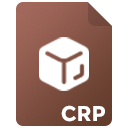
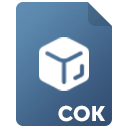
.

diff --git a/Controls/Form/AutoSizeLabel.cs b/Controls/Form/AutoSizeLabel.cs
@@ -12,6 +12,8 @@ public class AutoSizeLabel : SlickControl
 	public StringAlignment HorizontalAlignment { get; set; }
 	[DefaultValue(StringAlignment.Near)]
 	public StringAlignment VerticalAlignment { get; set; }
+	[DefaultValue(true)]
+	public bool AutoFit { get; set; } = true;
 
 	[Browsable(true)]
 	[DesignerSerializationVisibility(DesignerSerializationVisibility.Visible)]
@@ -50,9 +52,9 @@ public class AutoSizeLabel : SlickControl
 			format.FormatFlags |= StringFormatFlags.DirectionRightToLeft;
 		}
 
-		var width = Math.Min(availableSize.Width, Padding.Horizontal + (int)FontMeasuring.Measure(Text, Font).Width);
+		var width = Math.Min(availableSize.Width - Padding.Horizontal, (int)FontMeasuring.Measure(Text, Font).Width);
 
-		return new Size(width, Math.Min(availableSize.Height, Padding.Vertical + (int)FontMeasuring.Measure(Text, Font, width - Padding.Horizontal, format).Height));
+		return new Size(width, Math.Min(availableSize.Height, Padding.Vertical + (int)FontMeasuring.Measure(Text, Font, width, format).Height));
 	}
 
 	protected override void OnPaint(PaintEventArgs e)
@@ -61,7 +63,7 @@ public class AutoSizeLabel : SlickControl
 
 		base.OnPaint(e);
 
-		using var font = new Font(Font, Font.Style).FitTo(Text, ClientRectangle.Pad(Padding), e.Graphics);
+		var font = AutoFit ? new Font(Font, Font.Style).FitTo(Text, ClientRectangle.Pad(Padding), e.Graphics) : Font;
 		using var brush = new SolidBrush(ForeColor);
 		using var format = new StringFormat
 		{
@@ -75,5 +77,10 @@ public class AutoSizeLabel : SlickControl
 		}
 
 		e.Graphics.DrawString(Text, font, brush, ClientRectangle.Pad(Padding), format);
+
+		if (AutoFit)
+		{
+			font.Dispose();
+		}
 	}
 }

diff --git a/Classes/DesignExtensions.cs b/Classes/DesignExtensions.cs
@@ -352,11 +352,16 @@ public static class DesignExtensions
 
 		for (var i = shadowLayers; i > 0; i--)
 		{
-			//using var brush = new SolidBrush(Color.FromArgb(GetShadowIntensity(i, shadowLayers, shadowColor.A), shadowColor));
-			//graphics.FillRoundedRectangle(brush, rectangle.Pad(-i), cornerRadius + i);
-
-			using var pen = new Pen(Color.FromArgb(GetShadowIntensity(i, shadowLayers, shadowColor.A), shadowColor), shadowLayers) { Alignment = PenAlignment.Inset };
-			graphics.DrawRoundedRectangle(pen, rectangle.Pad(-i), cornerRadius + i);
+			if (backColor?.A is null or 255)
+			{
+				using var pen = new Pen(Color.FromArgb(GetShadowIntensity(i, shadowLayers, shadowColor.A), shadowColor), shadowLayers) { Alignment = PenAlignment.Inset };
+				graphics.DrawRoundedRectangle(pen, rectangle.Pad(-i), cornerRadius + i);
+			}
+			else
+			{
+				using var brush = new SolidBrush(Color.FromArgb(GetShadowIntensity(i, shadowLayers, shadowColor.A), shadowColor));
+				graphics.FillRoundedRectangle(brush, rectangle.Pad(-i), cornerRadius + i);
+			}
 		}
 
 		using var brushBack = new SolidBrush(backColor ?? FormDesign.Design.BackColor);
@@ -372,10 +377,12 @@ public static class DesignExtensions
 	private static byte GetShadowIntensity(double x, double layers, byte alpha)
 	{
 		var transformedX = x / (layers + 1);
-		var result = (1 / (2 * transformedX) - transformedX / 2) * alpha *2+1;
+		var result = (((1 / (2 * transformedX)) - (transformedX / 2)) * alpha * 2) + 1;
 
 		if (result >= 125)
+		{
 			return 125;
+		}
 
 		return (byte)result;
 	}

diff --git a/Controls/Generic/SlickStackedPanel.cs b/Controls/Generic/SlickStackedPanel.cs
@@ -26,7 +26,13 @@ public class SlickStackedPanel : Panel
 
 	protected override void OnLayout(LayoutEventArgs levent)
 	{
+		this.SuspendDrawing();
+
+		base.OnLayout(levent);
+
 		DoLayout();
+
+		this.ResumeDrawing();
 	}
 
 	private void DoLayout()
@@ -36,8 +42,14 @@ public class SlickStackedPanel : Panel
 			return;
 		}
 
-		var columnWidth = ColumnWidth == 0 ? Controls[0].Width.If(0, 1) : ColumnWidthIsPercentage ? ((Width - Padding.Horizontal) * ColumnWidth / 100) : (int)(ColumnWidth * UI.FontScale);
+		var columnWidth = Math.Min(Width - Padding.Horizontal, ColumnWidth == 0 ? Controls[0].Width.If(0, 1) : ColumnWidthIsPercentage ? ((Width - Padding.Horizontal) * ColumnWidth / 100) : (int)(ColumnWidth * UI.FontScale));
 		var columns = (int)Math.Max(1, Math.Floor((Width - Padding.Horizontal) / (float)columnWidth));
+
+		if (MaximizeSpaceUsage)
+		{
+			columnWidth = (Width - Padding.Horizontal) / columns;
+		}
+
 		var startingX = Padding.Left + (Center ? (Width - Padding.Horizontal - (columns * columnWidth)) / 2 : 0);
 		var currentY = new int[columns];
 		var index = 0;

diff --git a/Classes/IO.cs b/Classes/IO.cs
@@ -85,7 +85,7 @@ public static class IO
 			return Img.File_Log;
 		}
 
-		if (new[] { ".crp" }.Any(y => string.Equals(y, file.Extension, StringComparison.CurrentCultureIgnoreCase)))
+		if (new[] { ".crp", ".cok" }.Any(y => string.Equals(y, file.Extension, StringComparison.CurrentCultureIgnoreCase)))
 		{
 			return Img.File_CRP;
 		}
